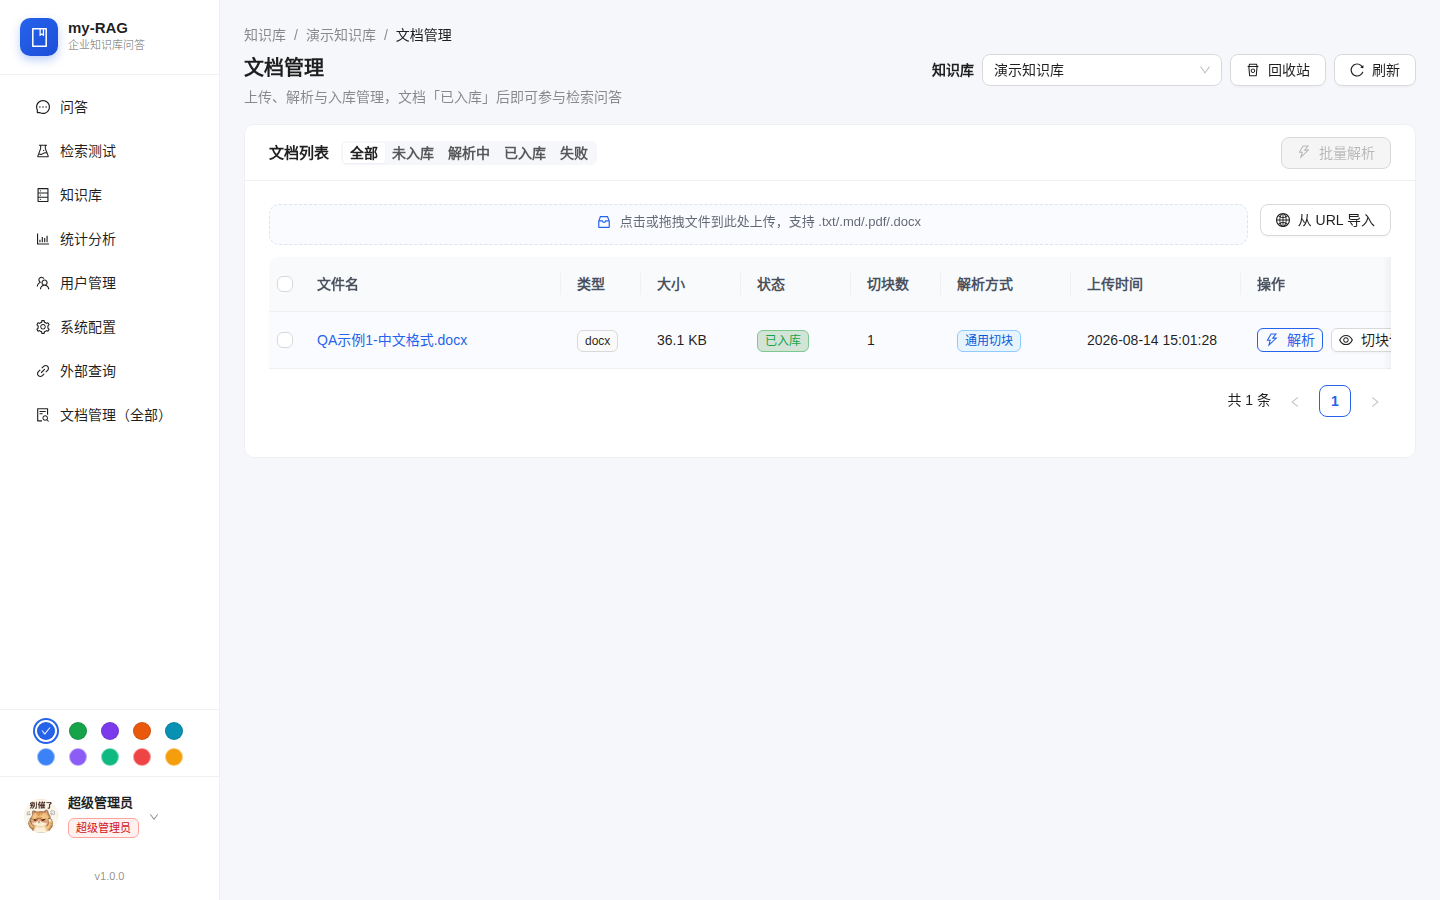
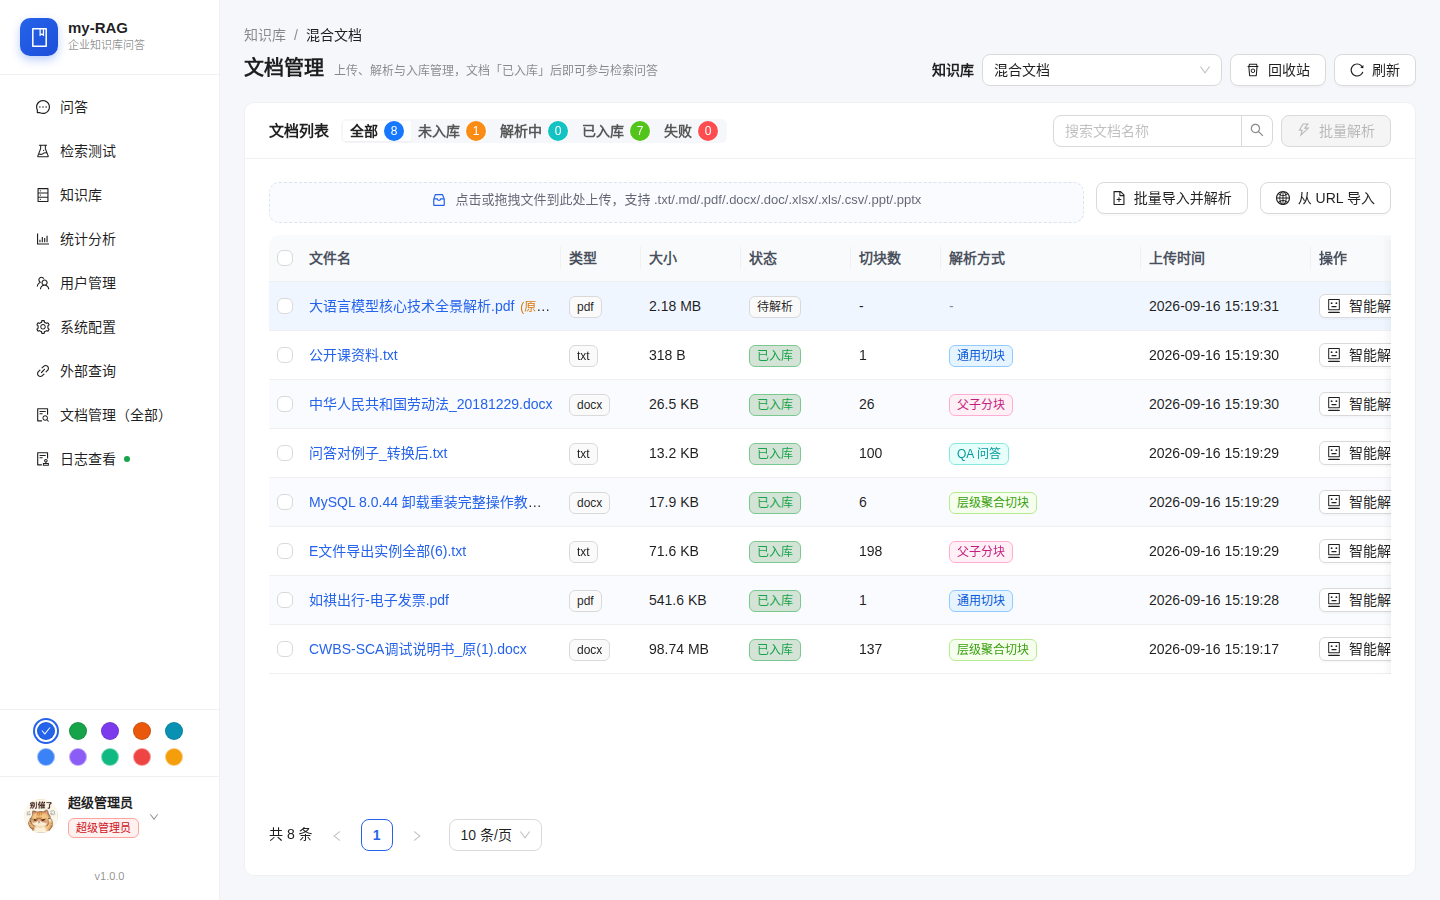
更新最新文档，和说明文件

diff --git a/RAG/ARCHITECTURE.md b/RAG/ARCHITECTURE.md
@@ -15,15 +15,15 @@ flowchart LR
     end
 
     subgraph 后端["后端 FastAPI (8091)"]
-        ROUTERS[路由层<br/>auth users departments knowledge_bases<br/>documents chat stats settings files audit ext_query]
-        SERVICES[Services 层<br/>kb / document / vector_store / embedding / parser<br/>ingestion / retrieval / chat / bm25 / rerank /<br/>settings / audit / storage / auth / user / dept /<br/>web_importer / ragas_client / dim_check ...]
+        ROUTERS[路由层<br/>auth users departments knowledge_bases<br/>documents chat stats settings files audit<br/>ext_query graphs logs user_memory]
+        SERVICES[Services 层<br/>kb / document / vector_store / embedding / parser<br/>ingestion / retrieval / chat / bm25 / rerank /<br/>smart_parse / knowledge_graph / user_memory / image_summary /<br/>settings / audit / storage / auth / user / dept /<br/>web_importer / ragas_client / dim_check ...]
         CHUNK[chunking/<br/>切块引擎（一算法一文件）]
     end
 
     subgraph 数据["数据层"]
         MYSQL[(MySQL<br/>用户/部门/知识库三表)]
         MINIO[(MinIO / local<br/>原始文档与解析图片)]
-        CHROMA[(Chroma 嵌入式<br/>data/chroma, kb_{id})]
+        VECTOR[(向量后端<br/>Chroma 嵌入式 / Milvus 服务化)]
         JSON[(JSON 元数据<br/>data/kbs documents chat ...)]
     end
 
@@ -32,6 +32,7 @@ flowchart LR
         EMB[Embedding<br/>bge-m3 dim=1024 @127.0.0.1:8300/v1]
         RERANK[Rerank<br/>本地模型服务 /rerank]
         MINERU[MinerU<br/>文档高质量解析 @127.0.0.1:8001]
+        DEEPDOC[DeepDoc<br/>RAGFlow 解析 @127.0.0.1:9380]
     end
 
     RAGAS[评估系统 RAGAS @8090<br/>只读对接 + 评估发起]
@@ -42,12 +43,13 @@ flowchart LR
     SERVICES --> CHUNK
     SERVICES --> MYSQL
     SERVICES --> MINIO
-    SERVICES --> CHROMA
+    SERVICES --> VECTOR
     SERVICES --> JSON
     SERVICES --> LLM
     SERVICES --> EMB
     SERVICES --> RERANK
     SERVICES --> MINERU
+    SERVICES --> DEEPDOC
     SERVICES -->|HTTP 8090| RAGAS
 ```
 
@@ -58,7 +60,7 @@ flowchart LR
 ```mermaid
 flowchart LR
     A[用户问题] --> B[多知识库选择 kb_ids<br/>top_k / 相似度阈值]
-    B --> C1[向量检索<br/>Chroma + bge-m3]
+    B --> C1[向量检索<br/>Chroma / Milvus + bge-m3]
     B --> C2[BM25 混合检索<br/>jieba 中文分词]
     C1 --> D[RRF 融合排序]
     C2 --> D
@@ -77,17 +79,22 @@ flowchart LR
 ### 1.3 文档入库链路
 
 ```
-上传（txt/md/pdf/docx ≤100MB / URL 网页导入）
+上传（txt/md/pdf/docx/xlsx/xls/csv/ppt/pptx ≤100MB / URL 网页导入）
     ↓
 解析：MinerU 高质量解析（含图片提取）→ 不可用自动降级 pypdf / python-docx；
-      Excel/CSV 本地结构化直读（spreadsheet 读取器，直接产出管道表格）
+      docx 规范类文档可走规范条文解析（normative，章节层级识别）；
+      复杂版式可指定 DeepDoc（RAGFlow）；Excel/CSV 本地结构化直读（spreadsheet 读取器，
+      直接产出管道表格）；图片摘要可用多模态模型把图内文字读成描述回填正文
     ↓
-切块：通用 / 按标题 / 正则 / 父子分块 / QA 问答 / Agentic 智能分块（chunk_size / chunk_overlap 可配；Agentic 为 LLM 读全文语义切块，≤1 万字，原理见 docs/Agentic智能分块原理.md）
+切块：通用 / 按标题 / 正则 / 父子分块 / QA 问答 / Agentic 智能分块 /
+      层级聚合切块（保留章节树，父块供检索、子块供引用）
+      （chunk_size / chunk_overlap 可配；Agentic 为 LLM 读全文语义切块，≤1 万字，
+        原理见 docs/Agentic智能分块原理.md、docs/层级聚合切块原理.md）
     ↓
 向量化：bge-m3（批量 32、超长截断 8000 字符）+ 维度检测
     ↓
-存储：向量 → Chroma（collection kb_{id}）；原始文档/图片 → MinIO 或 local；
-      元数据 → data/*.json + MySQL
+存储：向量 → 向量后端（VECTOR_BACKEND=chroma|milvus）；原始文档/图片 → MinIO 或 local；
+      元数据 → data/*.json + MySQL；知识图谱 → data/storage/graphs/{kb_id}.json
     ↓
 状态机：uploaded → parsing → parsed → ingested / failed（前端轮询展示）
 ```
@@ -101,26 +108,38 @@ flowchart LR
 | `main.py` | 入口：app 初始化、lifespan（init_db + 存储桶 ensure）、路由注册 |
 | `config.py` | 全局配置（pydantic-settings，环境变量优先，.env 为出厂默认） |
 | `db.py` / `deps.py` | 数据库引擎与会话管理 / 认证依赖（JWT、角色校验） |
-| `models/` | Pydantic 模型：rag_models（知识库/文档/聊天）、user_models（用户/部门） |
-| `routers/auth.py` | 登录、当前用户、改密（JWT 签发/校验） |
+| `models/` | Pydantic / ORM 模型：rag_models（知识库/文档/聊天）、user_models（用户/部门）、ext_query_models（外部查询访问记录） |
+| `routers/auth.py` | 登录、当前用户、改密（JWT 签发/校验，登录限流） |
 | `routers/users.py` `departments.py` | 用户/部门管理（仅超管） |
-| `routers/knowledge_bases.py` | 知识库 CRUD、标签、向量重建、文档列表/上传/解析/重命名/回收站 |
+| `routers/knowledge_bases.py` | 知识库 CRUD、标签、向量重建 |
+| `routers/documents/crud.py` | 文档明细、原始内容预览、上传/解析/重命名/回收站（prefix `/api/kbs/{kb_id}/documents`） |
 | `routers/documents/admin.py` | 超管跨库文档管理（全库文档视图） |
-| `routers/documents.py` | 文档明细、原始内容预览、状态查询 |
+| `routers/documents/smart_parse.py` | 智能解析：文档画像分析与推荐解析方案 |
 | `routers/chat.py` | SSE 流式问答、检索接口、会话历史 CRUD/重命名/导出 |
-| `routers/stats.py` | 检索质量统计、RAGAS 只读对接与评估发起 |
+| `routers/stats.py` | 检索质量统计、用户反馈、RAGAS 只读对接与评估发起 |
+| `routers/graphs.py` | 知识图谱查询（实体/关系，按实体搜索子网） |
 | `routers/settings.py` | 配置档案 CRUD/激活/连接测试、embedding 维度查询 |
 | `routers/files.py` | 图片/文件鉴权代理输出（?token= 或 Bearer） |
 | `routers/audit.py` | 审计日志查询（仅超管） |
-| `routers/ext_query.py` | 外部查询配置（供 MCP / Agent 对接的只读问答入口） |
+| `routers/logs.py` | 日志查看（总览/健康/实时 tail/文件/区间） |
+| `routers/ext_query.py` | 外部查询：管理端 `/api/ext-queries`（含总览/访问记录/续期）+ 对外免账号问答 `/api/ext/{id}`（含图片代理） |
+| `routers/user_memory.py` | 用户记忆读写（`/api/users/{user_id}/memory`） |
 | `services/kb_service.py` `document_service.py` | 知识库/文档元数据（JSON + MySQL） |
-| `services/vector_store.py` | Chroma 向量存储（collection kb_{id}，软删除过滤） |
+| `services/vector_store.py` | 向量后端抽象（`VectorBackend`）：Chroma 嵌入式 / Milvus 服务化，软删除过滤 |
 | `services/embedding_service.py` | bge-m3 向量化（批量/截断/失败降级） |
-| `services/parsers/client.py` `parser_probe.py` `parser_images.py` | 解析器（MinerU/纯文本）探测、调用与图片链路 |
+| `services/parsers/` | 解析链路：`client`（MinerU / 纯文本 / DeepDoc 调度）、`deepdoc`、`probe(s)`、`images`、`gotenberg`（office 转换） |
+| `services/smart_parse/` | 智能解析：`profiling` 画像 → `plan` 方案 → `cost` 成本预估 → `engine` 执行 |
 | `services/ingestion/` | 入库状态机编排（params 参数校验 / trace 轨迹 / images 图片链 / service 主体，并发信号量） |
 | `services/retrieval_service.py` `contextual_retriever.py` | 混合检索、RRF 融合、父子块回填、多库合并 |
 | `services/bm25.py` `rerank_client.py` | BM25 中文分词索引 / Rerank 客户端（未配置自动跳过） |
+| `services/query_rewriter.py` `thinking_strategy.py` | 查询改写 / Agentic 决策阶段（检索中·改写中·重新检索中） |
 | `services/chat_service.py` | SSE 流式问答、强制引用溯源、多轮上下文 |
+| `services/knowledge_graph_service.py` | 知识图谱：LLM 抽取实体关系、子网查询（data/storage/graphs） |
+| `services/user_memory_service.py` | 用户记忆/画像的读写与问答注入 |
+| `services/image_summary.py` | 图片摘要（多模态模型读图回填正文） |
+| `services/ext_query_service.py` | 外部查询：链接与令牌管理、有效期与续期、访问记录落库（含来源 IP）、免账号问答会话 |
+| `services/feedback_service.py` | 用户反馈（点赞点踩 + 原因 + 会话回溯） |
+| `services/rate_limit.py` | 限流（登录等敏感接口） |
 | `services/dim_check.py` | 向量维度检测 + 后台重建任务（轮询进度） |
 | `services/retrieval_log.py` | 检索质量日志（近 30 天命中率/零命中） |
 | `services/ragas_client.py` `ragas_sampling.py` | RAGAS(8090) 只读/评估发起对接、真实问答采样 |
@@ -129,25 +148,29 @@ flowchart LR
 | `services/storage_service.py` | 对象存储抽象（MinIO / local 可切换） |
 | `services/auth_service.py` `user_service.py` `department_service.py` | 多租户认证与账号体系 |
 | `services/web_importer.py` | URL 网页导入 |
-| `services/parsers/deepdoc.py` `probes.py` | DeepDoc/探测客户端（可选解析链路） |
-| `chunking/` | 切块引擎，一个算法一个文件（`recursive` 通用 / `markdown_splitter` 按标题 / `regex_chunker` 正则 / `parent_child` 父子分块 / `qa_chunker` QA 问答；Agentic 为 services/agentic_chunker.py 异步 LLM 分块） |
+| `services/agentic_chunker.py` `agentic_service.py` | Agentic 智能分块（异步 LLM 语义切块） |
+| `services/table_normalizer.py` `text_cleanup.py` `llm_client.py` | 表格规范化 / 文本清洗 / LLM 客户端 |
+| `chunking/` | 切块引擎，一个算法一个文件（`recursive` 通用 / `markdown_splitter` 按标题 / `regex_chunker` 正则 / `parent_child` 父子分块 / `qa_chunker` QA 问答 / `heading_presets` 层级聚合） |
+| `normative/` | 规范条文解析（`docx_parser` / `chunker` / `heading_llm`） |
 
-### 2.2 前端（frontend/src/pages/）
+### 2.2 前端（frontend/src/modules/）
 
-| 页面 | 职责 |
+按业务模块组织，模块内自带 `components/`；跨模块复用的 API 封装、布局与通用组件放在 `shared/`。
+
+| 模块 | 职责 |
 |------|------|
-| `Login.tsx` | 登录 |
-| `KnowledgeBases.tsx` | 知识库列表/创建/标签/文档管理入口 |
-| `Documents.tsx` | 文档上传、解析、回收站、重命名 |
-| `GlobalDocuments.tsx` | 超管全库文档视图 |
-| `Chat.tsx` | 流式问答（SSE）、会话历史/重命名/导出 |
-| `RetrievalTest.tsx` | 检索测试（多库/混合/重排参数调试） |
-| `analytics/` | 检索质量统计 + RAGAS 评估发起与报告（`Analytics` / `FeedbackDetail` / `QualityDetail` / `RagasDetail` + shared） |
-| `settings/` | 配置档案（`index` 容器 + 10 个面板：ar / retrieval / ingest / llm / embedding / mineru / deepdoc / mysql / minio / vector_store） |
-| `logs/` | 日志查看（`index` + 操作审计 / 系统日志文件 / 实时系统日志 三个 Tab） |
-| `Users.tsx` | 用户/部门管理（超管） |
-| `Profile.tsx` | 个人资料与改密 |
-| `ExtQueries.tsx` / `ExtQueryPage.tsx` | 外部查询配置与演示页 |
+| `auth/` | 登录页 |
+| `knowledge/` | 知识库列表/创建/标签/文档管理入口；知识图谱 Tab |
+| `documents/` | 文档上传、解析、回收站、重命名；切块详情；智能解析向导；全部门文档视图（`GlobalDocuments`） |
+| `chat/` | 流式问答（SSE）、会话历史/重命名/导出、引用溯源弹窗 |
+| `retrieval/` | 检索测试（多库/混合/重排参数调试、向量分与重排分对比） |
+| `analytics/` | 系统统计 + 检索质量 + RAGAS 评测 + 用户反馈（含会话回溯抽屉） |
+| `ext-queries/` | 外部查询（总览卡片 / 链接配置 / 访问记录与明细）与对外问答页 |
+| `settings/` | 配置档案（容器 + 各分组面板：llm / embedding / mineru / deepdoc / retrieval / ingest / 图片摘要 / mysql / minio / 向量后端） |
+| `logs/` | 日志查看（操作审计 / 系统日志文件 / 实时系统日志） |
+| `users/` | 用户/部门管理（超管） |
+| `profile/` | 个人资料、改密、用户记忆 |
+| `shared/` | `api/`（client + 各域接口与 types）、`auth/`、`components/`、`hooks/`、`utils/` |
 
 ## 3. 关键流程
 
@@ -178,30 +201,39 @@ purge 才物理删除；知识库级联删除同样先入回收站。
 前端 React18 + AntD5 (dev 3002 / 生产 nginx 托管 dist)
         │  /api 反向代理
 后端 FastAPI (8091)   ←── 路由层: auth/users/departments/kbs/documents/chat/stats/settings/files/audit
-        │
+        │                    ext_query/graphs/logs/user_memory
         ├── services 层（模块化，可单独替换）
         │   ├── kb_service / document_service   元数据（data/kbs、data/documents）+ MySQL 三表
-        │   ├── vector_store                    Chroma 嵌入式（data/chroma，collection kb_{id}）
+        │   ├── vector_store                    向量后端抽象：Chroma（嵌入式）/ Milvus（服务化）
         │   ├── embedding_service               bge-m3（批量 32 / 截断 8000 字符）
-        │   ├── parser_client                   MinerU（不可用自动降级 pypdf/python-docx）
+        │   ├── parsers/                        MinerU / DeepDoc / 规范条文 / 表格 / 纯文本降级
+        │   ├── smart_parse/                    智能解析：画像 → 方案 → 成本预估 → 执行
         │   ├── ingestion/                      上传→解析→切块→向量化 状态机（params/trace/images/service）
         │   ├── retrieval_service / chat_service 向量+BM25 混合 / rerank / SSE 流式（引用标注）
-        │   ├── bm25 / rerank_client            混合检索与重排序
+        │   ├── contextual_retriever / query_rewriter / thinking_strategy  检索增强
+        │   ├── knowledge_graph_service         知识图谱（LLM 抽取实体关系，data/storage/graphs）
+        │   ├── user_memory_service             用户记忆/画像
+        │   ├── image_summary                   图片摘要（多模态模型读图回填正文）
+        │   ├── ext_query_service / rate_limit  外部查询 / 限流
+        │   ├── feedback_service / retrieval_log 用户反馈 / 检索质量日志
         │   ├── dim_check                       向量维度检测 + 后台重建任务
-        │   ├── retrieval_log                   检索质量日志（近 30 天）
         │   ├── stats_service / ragas_client    自身统计 + RAGAS(8090) 只读对接
         │   ├── settings_service                配置档案（data/settings.json，多档案+连接测试）
-        │   ├── audit_service                   审计日志（MySQL）
-        │   ├── storage_service                 对象存储（MinIO / local）
-        │   ├── auth_service / user_service / department_service / kb_service（多租户）
-        │   └── web_importer                    URL 网页导入
+        │   ├── audit_service / storage_service 审计日志（MySQL）/ 对象存储（MinIO / local）
+        │   └── auth_service / user_service / department_service / kb_service（多租户）
+        │
+        ├── chunking/       通用 / 按标题 / 正则 / 父子 / QA / Agentic / 层级聚合
+        ├── normative/      规范条文解析（docx_parser / chunker / heading_llm）
         │
         ├── 外部服务（OpenAI 兼容协议）
         │   ├── LLM:    qwen3.6-35b-a3b-apex-quality @ 127.0.0.1:1234/v1 (LM Studio)
         │   ├── Embedding: bge-m3 (dim=1024) @ 127.0.0.1:8300/v1 (vLLM)
-        │   ├── Rerank: 需本地模型服务（配置档案开启，见 docs/部署说明）
+        │   ├── Rerank: 需本地模型服务（配置档案开启，见 docs/外部依赖部署指南.md）
         │   ├── MinerU: http://127.0.0.1:8001（Docker 部署）
+        │   ├── DeepDoc: http://127.0.0.1:9380（RAGFlow，可选）
         │   ├── MySQL:  127.0.0.1:5455（多租户三表）
-        │   └── MinIO:  127.0.0.1:9000（对象存储）
+        │   ├── MinIO:  127.0.0.1:9000（对象存储）
+        │   └── Milvus: 127.0.0.1:19530（可选，VECTOR_BACKEND=milvus 时使用）
         └── RAGAS 评估系统 @ http://localhost:8090（只读对接：任务列表 + 报告）
+        └── MCP Server（mcp-server/）：向 AI Agent 暴露 kb_query 查询能力
 ```
